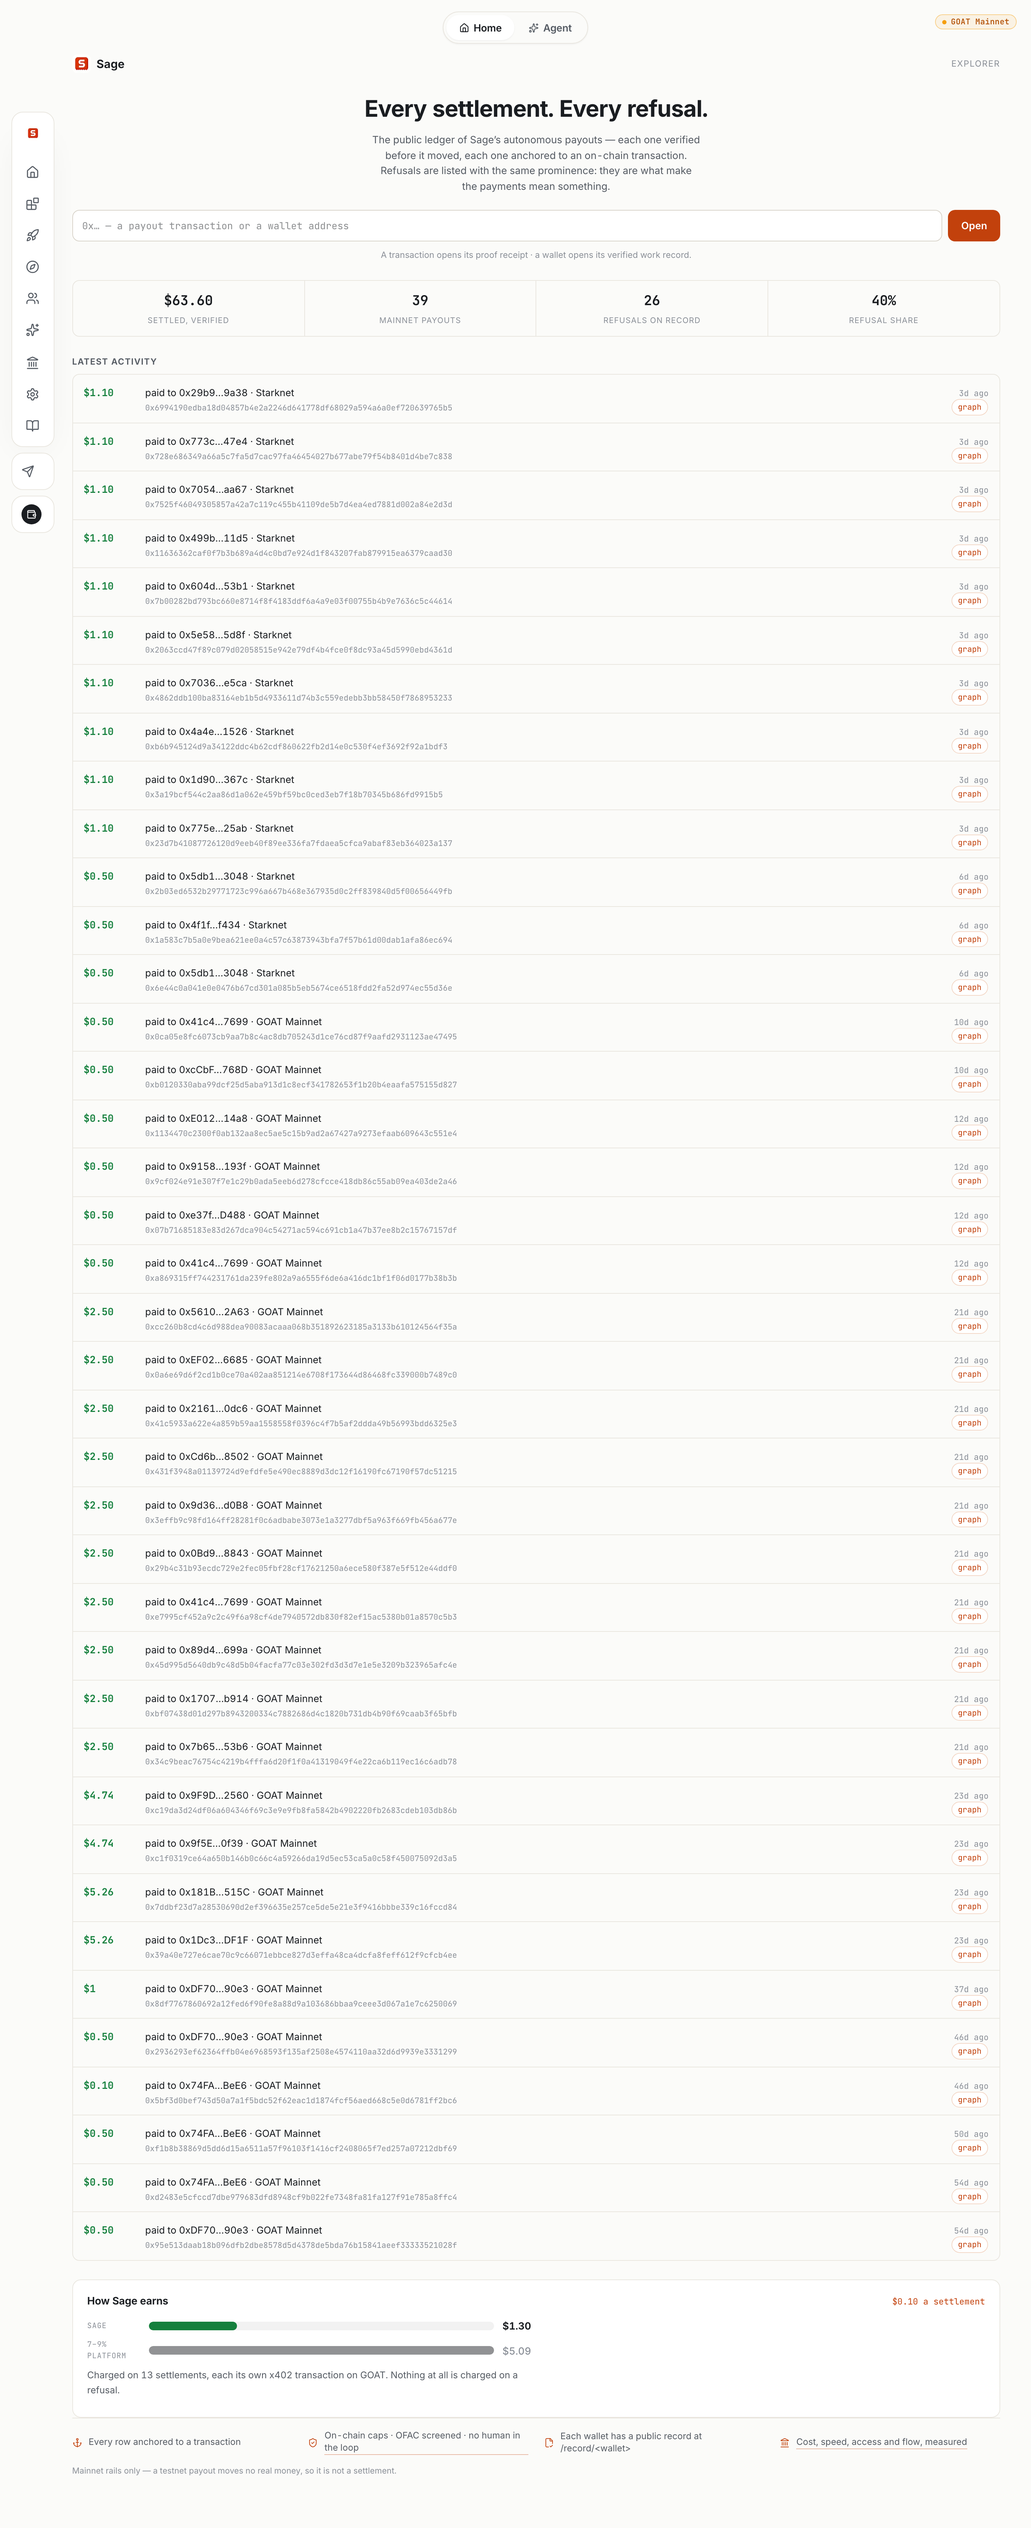
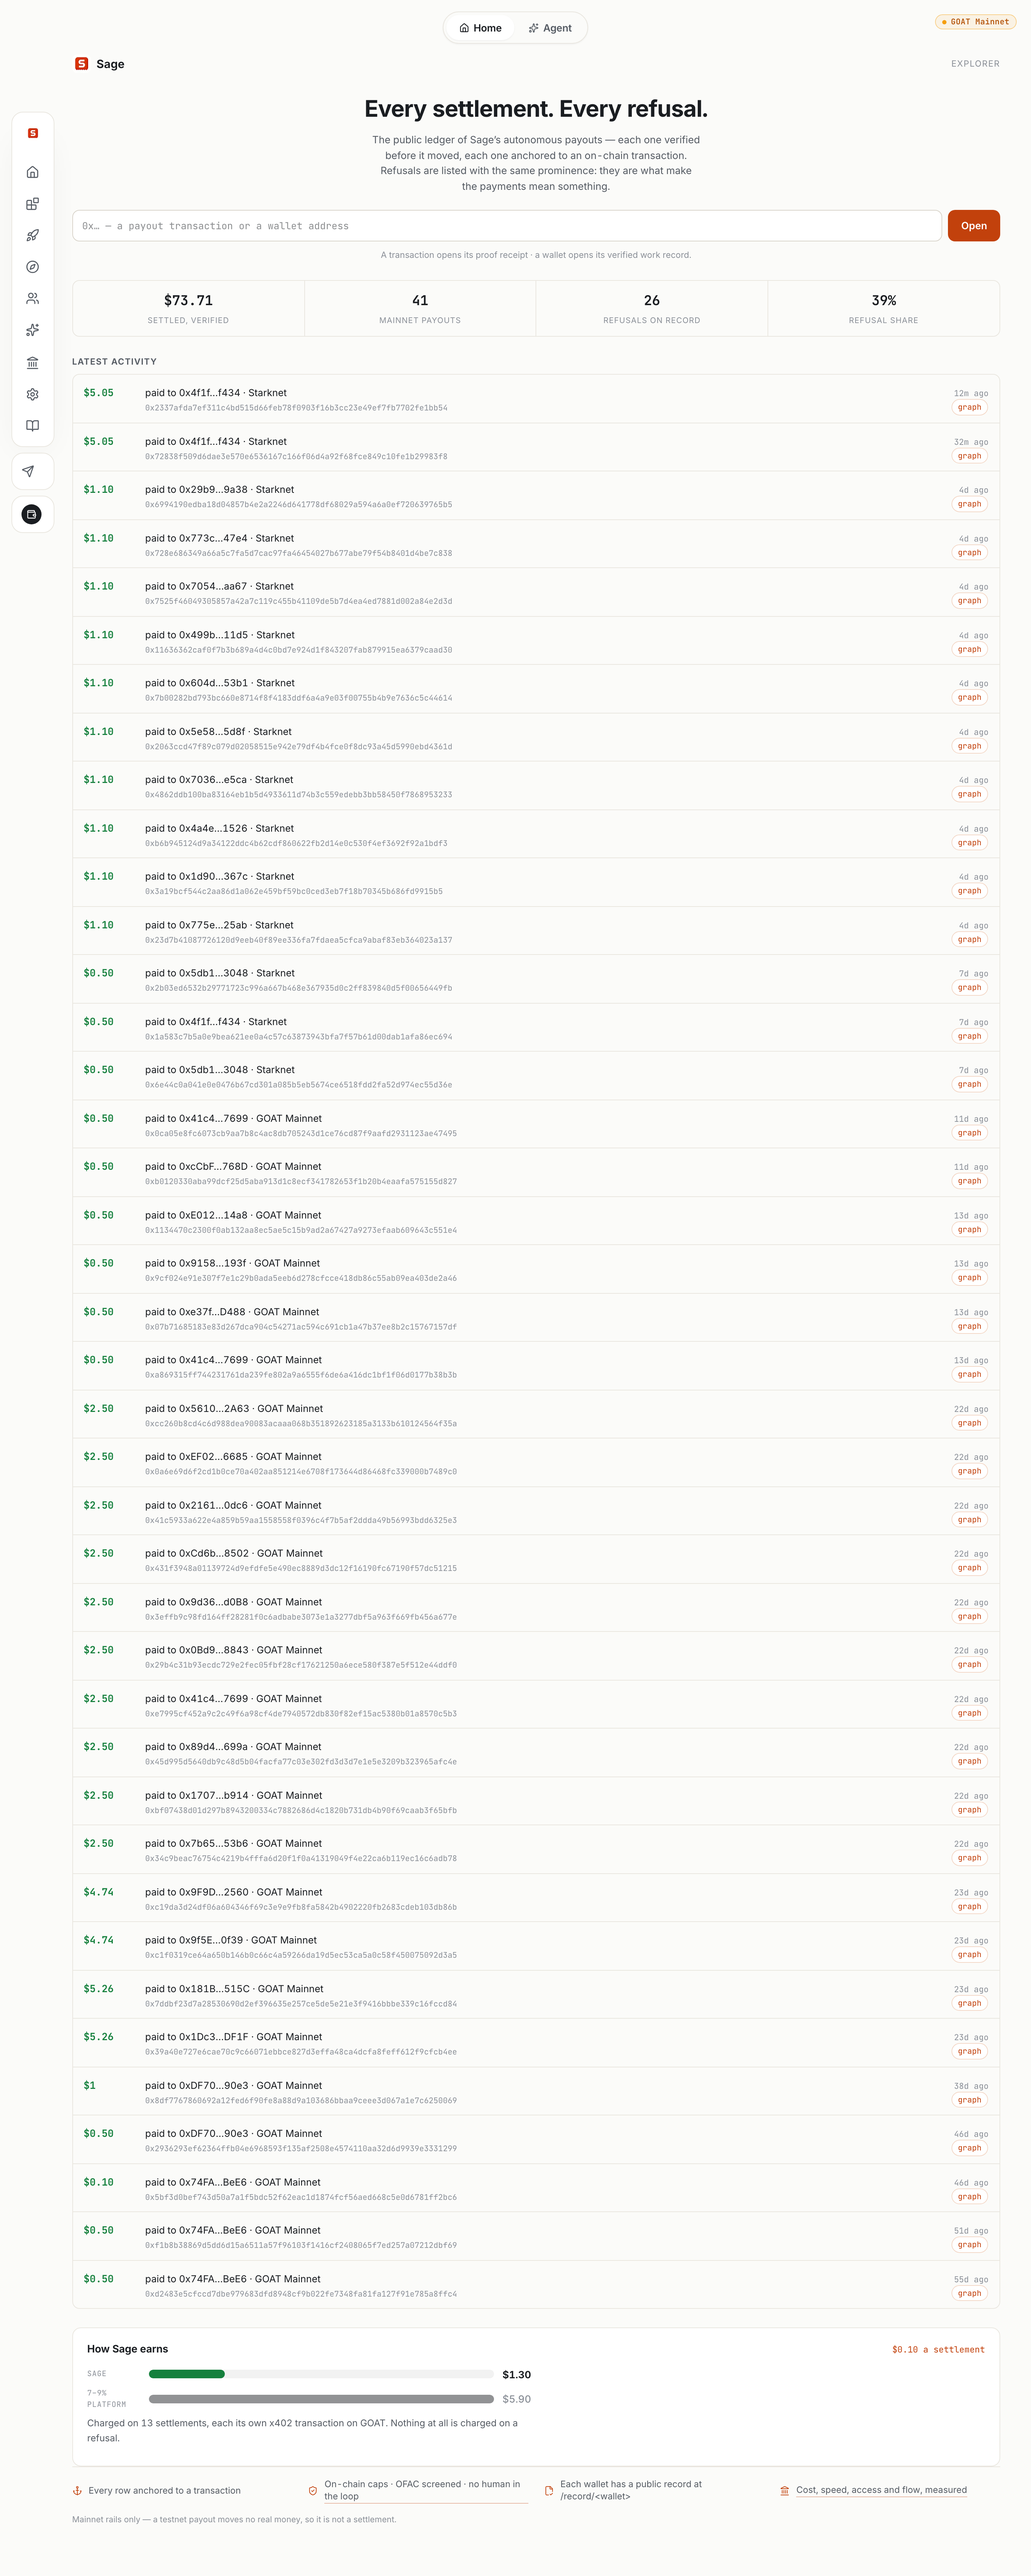
fc: the run's post set with the ledger timeline; the Caribbean page says plainly that our own wallet stood in for the seller; the advance's disburse transaction joins the manifest (9); Data Room screens refreshed with the Caribbean page, the statement, the recipient's record and the J$ receipt; the 

diff --git a/src/app/caribbean/page.tsx b/src/app/caribbean/page.tsx
@@ -122,8 +122,8 @@ export default function CaribbeanPage() {
             <tr><td>Verified cash-flow records and the lender&rsquo;s view</td><td><span className="status done">live</span></td><td><Link href={`/record/${RECORD}`}>a record</Link> · <Link href={`/lender?wallet=${RECORD}`}>its lender view</Link></td></tr>
             <tr><td>Obligations in {o.denominationsSupported} currencies at a stamped rate</td><td><span className="status done">live</span></td><td><Link href="/launch">/launch</Link></td></tr>
             <tr><td>Sanctions screening on every payment path · one person, one slot</td><td><span className="status done">live</span></td><td><Link href="/docs/compliance">/docs/compliance</Link> · <Link href="/verify">/verify</Link></td></tr>
[4 lines of base64/hex data omitted]
           </tbody>
         </table></div>
       </section>

diff --git a/src/lib/deputy/pipeline.ts b/src/lib/deputy/pipeline.ts
@@ -847,7 +847,7 @@ export async function runDeputyOnSubmission(
   // Counted across every wallet that is this PERSON (nullifier, chain links, declared links) —
   // one string was exactly what a wallet farm exploited. `countPaidByWalletInCampaign` stays for
   // the single-wallet readers; the money decision reads the person.
-  const walletPaid = countPaidByWalletsInCampaign(campaign.id, self);
+  const walletPaid = countPaidByWalletsInCampaign(campaign.id, personWallets(submission.wallet));
   if (walletPaid >= campaign.perWalletPayoutCap) {
     const reason = TERMINAL_REASON.walletCap(campaign.perWalletPayoutCap);
     agentLog(cid, "wallet_cap", { walletPaid, cap: campaign.perWalletPayoutCap });

diff --git a/docs/posts/2026-09-06-the-run.md b/docs/posts/2026-09-06-the-run.md
@@ -1,0 +1,87 @@
+# The run — 6 Sep 2026, 11:50 to 12:11 Kingston time
+
+What happened, from the ledger (all times UTC; Kingston is UTC−5):
+
+| when | what | proof |
+| --- | --- | --- |
+| 16:50:43 | milestone one submitted (the seller's storefront page) | `uMvUgO5KoQgo` |
+| 16:51:07 | verified, 24 s later | decision on the receipt |
+| 16:51:41 | **paid**, 58 s after submit — J$800 → $5.05 @ 158.27, released on the private rail | [receipt one](https://sagepays.xyz/proof/0x72838f509d6dae3e570e6536167c166f06d4a92f68fce849c10fe1b29983f8) |
+| 17:03:28 | **advance drawn** from the record: $1.85 against $5.05 of verified inflow, 12 min after the first payout | `adv-1997e6ea-454`, disburse `0x3e7014…3454` |
+| 17:07:12 | milestone two submitted (the same page, with the customer-reviews section) | `WgOT68aZA9lL` |
+| 17:08:51 | verified 7/7 at 95%, then **held**: 72% match to her own milestone-one page | the watch's reason on the record |
+| 17:10:53 | released after a human look, 2 min later | `submission_approved` |
+| 17:11:25 | **paid**, 32 s after release — and the waterfall took the $1.85 owed out of it: **advance repaid in full**, 8 min after it was drawn | [receipt two](https://sagepays.xyz/proof/0x2337afda7ef311c4bd515d66feb78f0903f16b3cc23e49ef7fb7702fe1bb54) · `rep-5460b741-363`, escrow `0x51a779…e8e7b` |
+
+Honesty line, used in every post: **a rehearsal with our own wallet standing in for the seller.** The
+grant, the money, the vault, the receipts and the advance are all real; the person is us. Say it once,
+plainly, and let the ledger do the rest. The hold on milestone two was our defect (a person's own
+earlier page is not "copied work"); fixed the same evening in `9e07bcf` — the two cross-wallet watches
+now read other people's work only. On X that is a beat, not a confession.
+
+Never post the claim links. They are bearer money.
+
+---
+
+## X · the receipt thread (Post I in the runsheet) · attach `16-receipt-jmd-milestone.png`, then the composer J$ clip
+
+**1/**
+J$1,600, two milestones, 21 minutes, no human approving a payment.
+
+Today Sage (sagepays.xyz) paid its first grant priced in Jamaican dollars: J$800 released 58 seconds after the first milestone was submitted, J$800 more when the second one verified. Held in USDC, priced in J$ at the day's rate, settled on Starknet with the balance private.
+
+Built for the cooperative that pays twelve sellers, not one.
+
+**2/** (self-reply, the links live here)
+Receipt one → https://sagepays.xyz/proof/0x72838f509d6dae3e570e6536167c166f06d4a92f68fce849c10fe1b29983f8
+Receipt two → https://sagepays.xyz/proof/0x2337afda7ef311c4bd515d66feb78f0903f16b3cc23e49ef7fb7702fe1bb54
+A rehearsal: our own wallet stood in for the seller. Everything else is real and on the ledger.
+
+**3/**
+Twelve minutes after the first payout, the seller's record priced a working-capital advance from her verified inflow: $1.85 drawn, one click, no application.
+
+Eight minutes later the second payout landed and the waterfall took the $1.85 back out of it. Outstanding: 0. The lender never met her. The record did.
+
+https://sagepays.xyz/record/0x04f1f6530f84e4a1db7fa35bafc313174a2482a54c775c4321487eb0fe91f434
+
+**4/** (the beat)
+The agent held milestone two for a human look: "72% match to another submission." The other submission was her own milestone one.
+
+A person's page is not a copy of itself. Fixed tonight: the copy watch now reads other people's work only. The hold cost two minutes and is on the record, reason and all. An agent that never says no is a faucet; one that says no for the wrong reason gets fixed the same day.
+
+**5/**
+What this is for: the programme that funds forty MSMEs in three currencies, the cooperative paying market sellers weekly, the lender that wants to price cash flow instead of collateral. Post the grant in one sentence, invite your people, fund once. Sage verifies each milestone and pays; the record does the rest.
+
+@futurecaribb finance track. Data Room in the pinned post.
+
+---
+
+## LinkedIn · Post 3 · attach `16-receipt-jmd-milestone.png` + `15-seller-record.png` (or the carousel)
+
+**J$1,600 in two milestones, settled in 21 minutes, with no bank, no invoice, and no human approving the payment.**
+
+Today we ran the first grant priced in a Caribbean currency through Sage, end to end, with real money. A J$1,600 grant, split into two milestones of J$800, held in dollars and priced at the day's rate (J$800 → $5.05 at 158.27). The first milestone was verified and paid 58 seconds after the evidence was submitted; the second, when its evidence verified. Each payment carries a public receipt with the verdict and the transaction. The recipient's balance stays private, because the settlement runs on Starknet's private rail.
+
+Then the part lenders will care about. Twelve minutes after the first payout, the recipient's record priced a working-capital advance from verified inflow: $1.85 drawn with one click, no application, no collateral. Eight minutes later the second payout landed and half of it went first to repayment. The advance was repaid in full the same afternoon. Outstanding: zero. Nobody underwrote her. The record did.
+
+This was a rehearsal: our own wallet stood in for the seller, and every step is on the public ledger. The grant, the vault, the receipts and the advance are real.
+
+Why it matters for the region: 80 to 90% of Caribbean businesses are MSMEs, and most cannot borrow because there is no cash-flow record to underwrite. Sage builds one as a side effect of paying people, in their currency, and puts a working-capital door on it. For the cooperative paying sellers weekly, the programme funding forty MSMEs across three currencies, and the lender that wants to price cash flow instead of collateral.
+
+Receipts, the record and the data room are in the first comment. Built for the Future Caribbean finance track, @Future Caribbean.
+
+**First comment:**
+Receipt one: https://sagepays.xyz/proof/0x72838f509d6dae3e570e6536167c166f06d4a92f68fce849c10fe1b29983f8
+Receipt two: https://sagepays.xyz/proof/0x2337afda7ef311c4bd515d66feb78f0903f16b3cc23e49ef7fb7702fe1bb54
+The record, with the advance drawn and repaid: https://sagepays.xyz/record/0x04f1f6530f84e4a1db7fa35bafc313174a2482a54c775c4321487eb0fe91f434
+What is proven and what is next: https://sagepays.xyz/caribbean
+
+---
+
+## Where it goes
+
+- `/caribbean` table: both rows read **proven · 6 Sep** with these receipts (deployed).
+- Landing roadmap: the J$ grant and the advance moved from "this week" to "live" (deployed).
+- `strk20.json`: the run's five transactions (two payouts, two escrows, the advance's disburse).
+- Data Room screens 13–16: the Caribbean page, the statement, the recipient's record, the J$ receipt.
+- Data Room index: TRL row 9 now cites the run.
